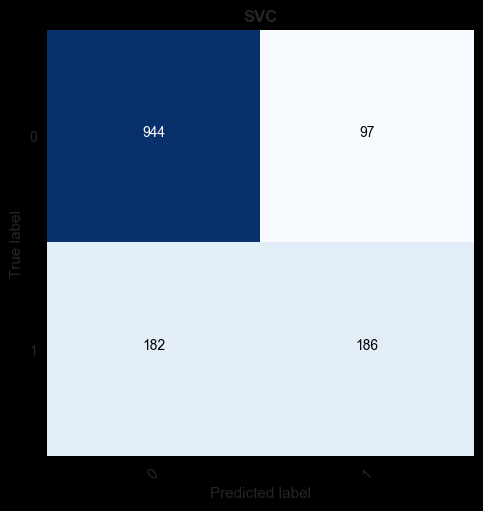
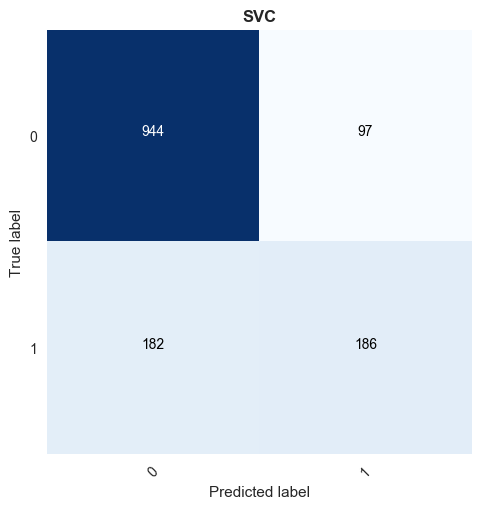
rf model added

diff --git a/Customer Churn prediction/multi_model.py b/Customer Churn prediction/multi_model.py
@@ -15,6 +15,7 @@ from sklearn.model_selection import train_test_split, GridSearchCV
 from sklearn.linear_model import LogisticRegression
 from sklearn.metrics import confusion_matrix, accuracy_score, classification_report, roc_auc_score, roc_curve
 from sklearn.svm import SVC
+from sklearn.ensemble import RandomForestClassifier
 
 # Visualization
 import matplotlib.style as style
@@ -103,18 +104,19 @@ class Train():
         fig = plt.figure(figsize=(5, 5)) 
         plot_cm(self.cm, classes=np.unique(self.train.Churn), mtd = self.estimator.__name__)
         fig.savefig(os.path.join(out_path, self.estimator.__name__ + '_cm' + '.png'), bbox_inches='tight', dpi=100)
-        plt.show()
 
 
 # ------------------------------------------------------------------------
 df_final = prepare_data()
 lr_grid = {'C':  np.logspace(-4, 4, 100, base=10) }
 rbf_grid =  {'C': np.logspace(-4, 1, 10, base=2), 'gamma': np.logspace(-6, 2, 10, base=2)}
-grids = {'lr_grid': lr_grid, 'rbf_grid': rbf_grid}
+rf_grid = {}
+
+grids = {'lr_grid': lr_grid, 'rbf_grid': rbf_grid, 'rf_grid': rf_grid}
 metrics = ['roc_auc', 'accuracy']
 
 # Initiate classifiers
-classifiers = [LogisticRegression, SVC]
+classifiers = [LogisticRegression, RandomForestClassifier, SVC]
 # Define a result table as a DataFrame
 result_table = pd.DataFrame(columns=['classifiers', 'fpr','tpr','auc'])
 
@@ -128,6 +130,9 @@ for clf in classifiers:
     if clf == SVC:
         use_grid = grids['rbf_grid']
         fixed_params = {'kernel': 'rbf', 'probability': True}
+    if clf == RandomForestClassifier:
+        fixed_params = {'n_estimators': 50, 'max_depth': 2}
+        use_grid = grids['rf_grid']
 
     model = Train(classifier = clf, data = df_final, test_percent = 0.2, metrics = metrics, fixed_params = fixed_params)
 

diff --git a/Customer Churn prediction/cm_plot.py b/Customer Churn prediction/cm_plot.py
@@ -24,5 +24,4 @@ def plot_cm(cm, classes, mtd, title='Confusion matrix', cmap=plt.cm.Blues, write
     plt.ylabel('True label')
     plt.xlabel('Predicted label')
     plt.title(mtd, fontweight='bold')
-    plt.grid()    
-    plt.show()
+    plt.grid()

diff --git a/Customer Churn prediction/README.md b/Customer Churn prediction/README.md
@@ -20,8 +20,6 @@ A Logistic Regression binary classification is performed, resulting in `roc_auc`
 
 
 ## Results after parameter tuning
-Results significantly differ after tuning the grid parameters for Logistic Regression and SVM. 
+Results significantly differ after tuning the grid parameters for Logistic Regression and SVM. Here we compare the roc curve for all the models to get a better understanding. 
 
-![](plots/LRhypparm_cm_roc.png)
-
-![](plots/svm_cm_roc.png)
+![](plots/multimodel_roc_curve.png)
